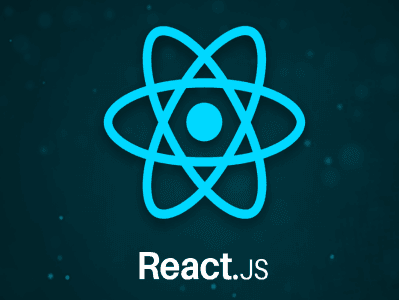
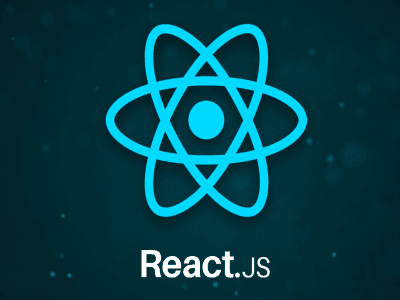
techno card is done

diff --git a/client/src/components/Main.jsx b/client/src/components/Main.jsx
@@ -1,6 +1,6 @@
 import React from 'react'
 import Card from './Card'
-import { getStudyImg } from '../assets/exportAssets'
+import { getStudyImg, getSkillsImg } from '../assets/exportAssets'
 
 export default () => {
   return (
@@ -27,7 +27,7 @@ export default () => {
           cardQuot="Каждой работе - свой инструмент."
           cardTitle="Технологии которыми владею"
           cardDescription="Перечислен технологический стек."
-          imgs={getStudyImg()} />
+          imgs={getSkillsImg()} />
       </div>
     </main>
   )

diff --git a/client/src/assets/exportAssets.js b/client/src/assets/exportAssets.js
@@ -1,11 +1,22 @@
 import studyImg1 from './js-samurai.png'
 import studyImg2 from './minin.png'
 import studyImg3 from './freecodecamp.png'
+import skillsImg1 from './htmlcssjs.png'
+import skillsImg2 from './react.png'
+import skillsImg3 from './node.png'
 
 export const getStudyImg = () => {
   return {
     img1: studyImg1,
     img2: studyImg2,
     img3: studyImg3
+  }
+}
+
+export const getSkillsImg = () => {
+  return {
+    img1: skillsImg1,
+    img2: skillsImg2,
+    img3: skillsImg3
   }
 }

diff --git a/client/src/App.css b/client/src/App.css
@@ -19,6 +19,5 @@ footer{
   flex: 0 0 auto;
 }
 .card {
-  min-width: 400px;
-  max-width: 500px;
+  width: 500px;
 }
